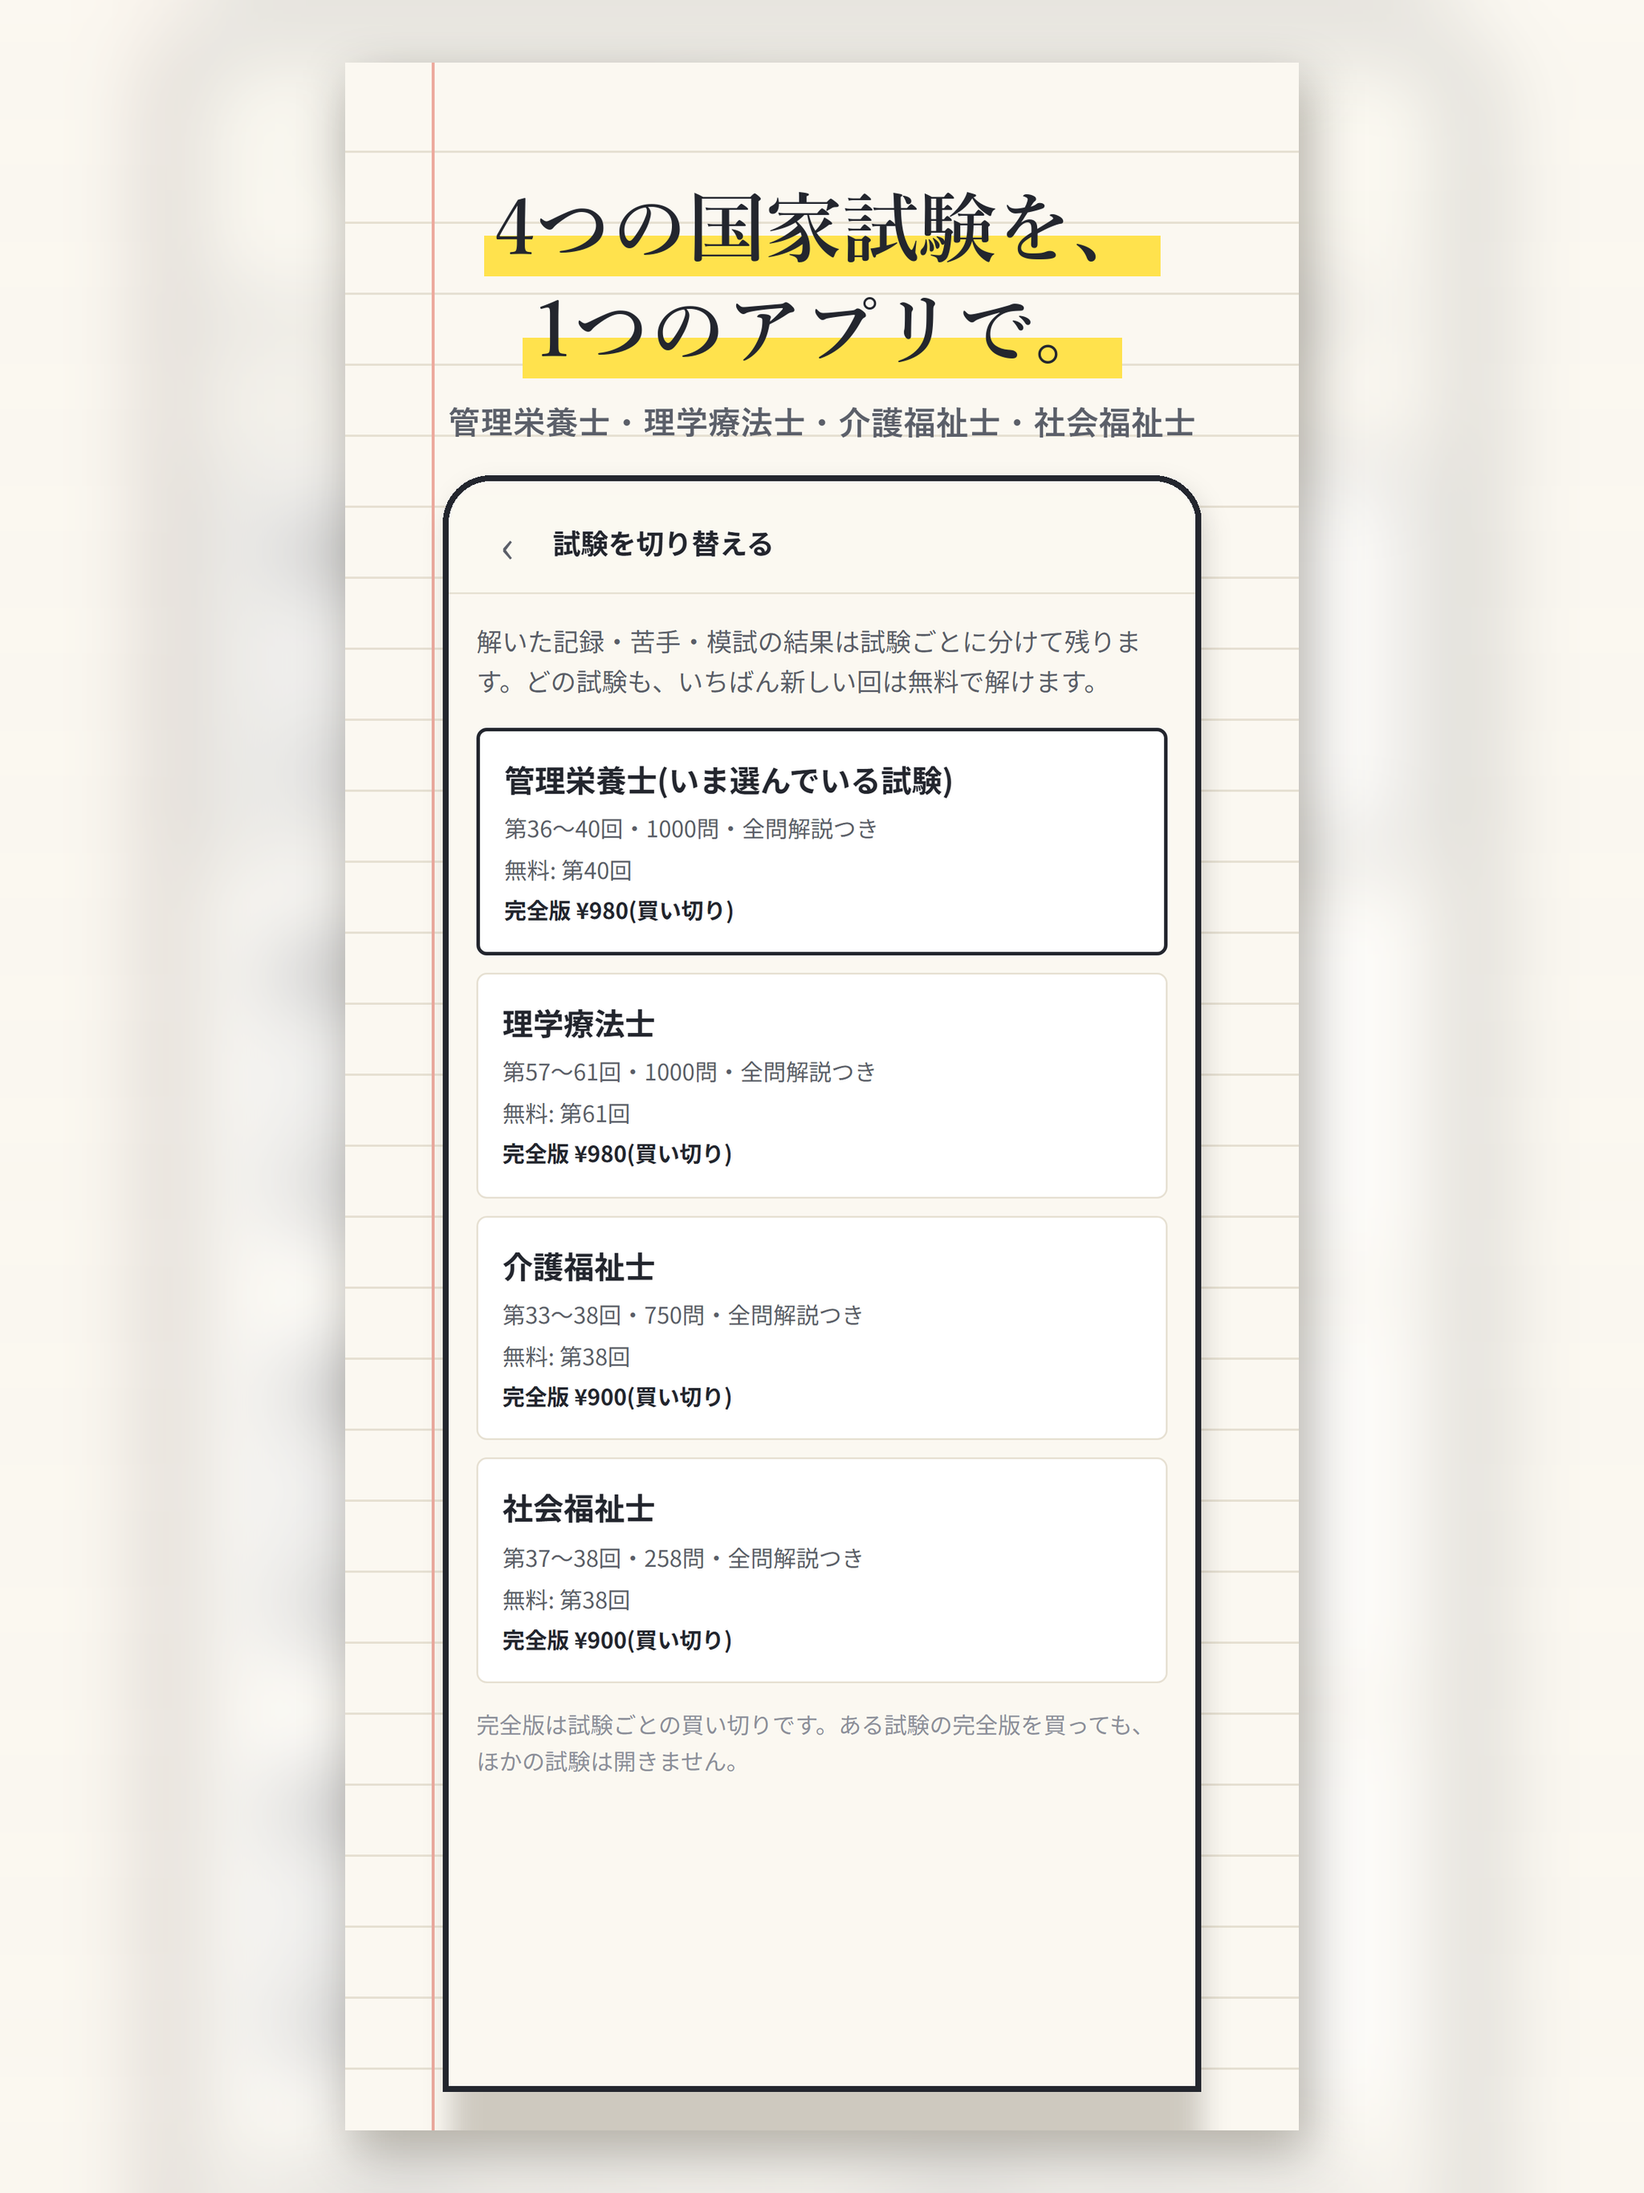
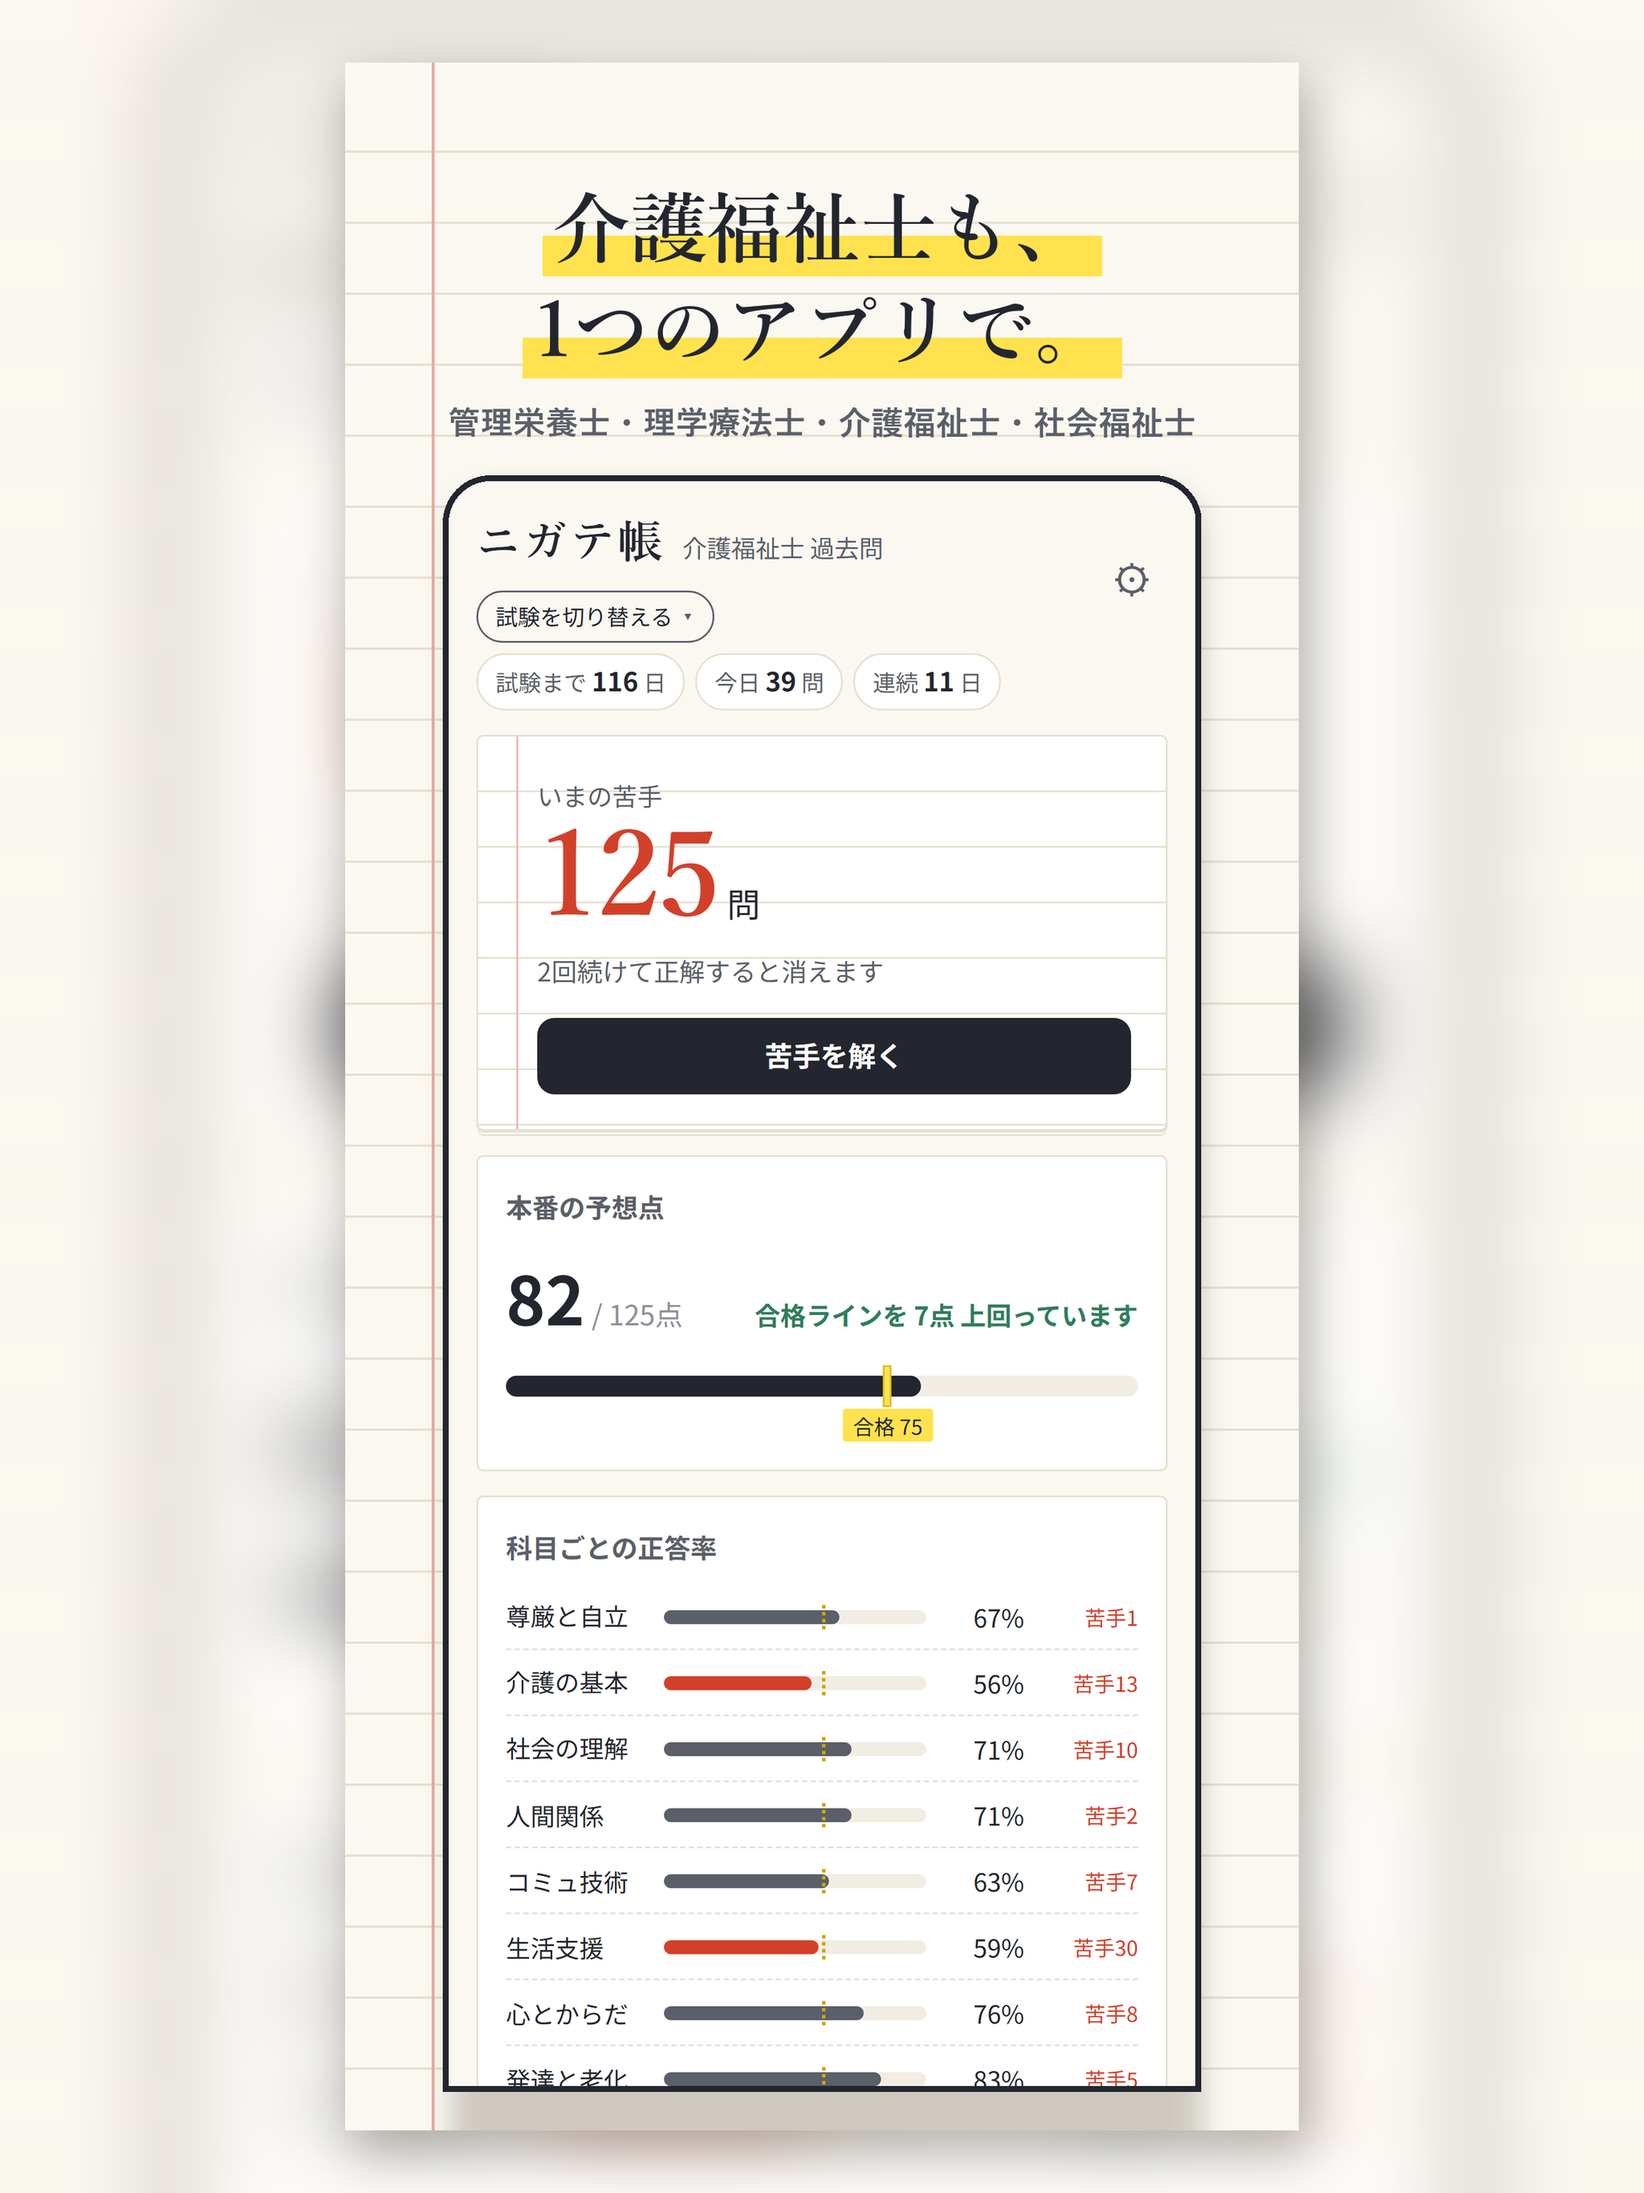
App Store の写真から値段と「無料」を外す(2.3.7 で却下されたため)

diff --git a/scripts/make_store_multi.py b/scripts/make_store_multi.py
@@ -123,13 +123,15 @@ def capture():
         b.close()
 
 
+# 写真に値段・「無料」を書かない(2026-10-07 1.1.0 が 2.3.7 で却下: 試験選びの画面の「完全版 ¥980」「無料」と6枚目の見出し)。
+# 試験選びの画面は値段が映るので使わない。受験生の多い介護福祉士を先頭に置く。
 IPHONE = [
-    ("1_picker", "4つの国家試験を、\n1つのアプリで。", "管理栄養士・理学療法士・介護福祉士・社会福祉士"),
-    ("2_home_kanri", "間違えた問題だけが、\n残る。", "苦手はノートに残り、本番までに減らしていく"),
-    ("3_answer_pt", "全問に、\nなぜ違うかの解説。", "正答の理由と、ほかの選択肢の誤りを1つずつ"),
+    ("e_home_kaigo", "介護福祉士も、\n1つのアプリで。", "管理栄養士・理学療法士・介護福祉士・社会福祉士"),
+    ("e_answer_kaigo", "全問に、\nなぜ違うかの解説。", "正答の理由と、ほかの選択肢の誤りを1つずつ"),
     ("4_forecast_kaigo", "本番なら何点か、\n毎日わかる。", "合格基準と並べて、科目ごとの正答率も"),
+    ("2_home_kanri", "間違えた問題だけが、\n残る。", "苦手はノートに残り、本番までに減らしていく"),
     ("5_result_shakai", "2回続けて正解したら、\n消える。", "苦手が0問になったら、本番に持っていく苦手はない"),
-    ("6_exams_pt", "4試験 計3,008問。\n最新の回は無料。", "完全版は試験ごとの買い切り。月額はかかりません"),
+    ("6_exams_pt", "4試験 計3,008問。\n年度別にも解ける。", "管理栄養士・理学療法士・介護福祉士・社会福祉士"),
 ]
 
 
